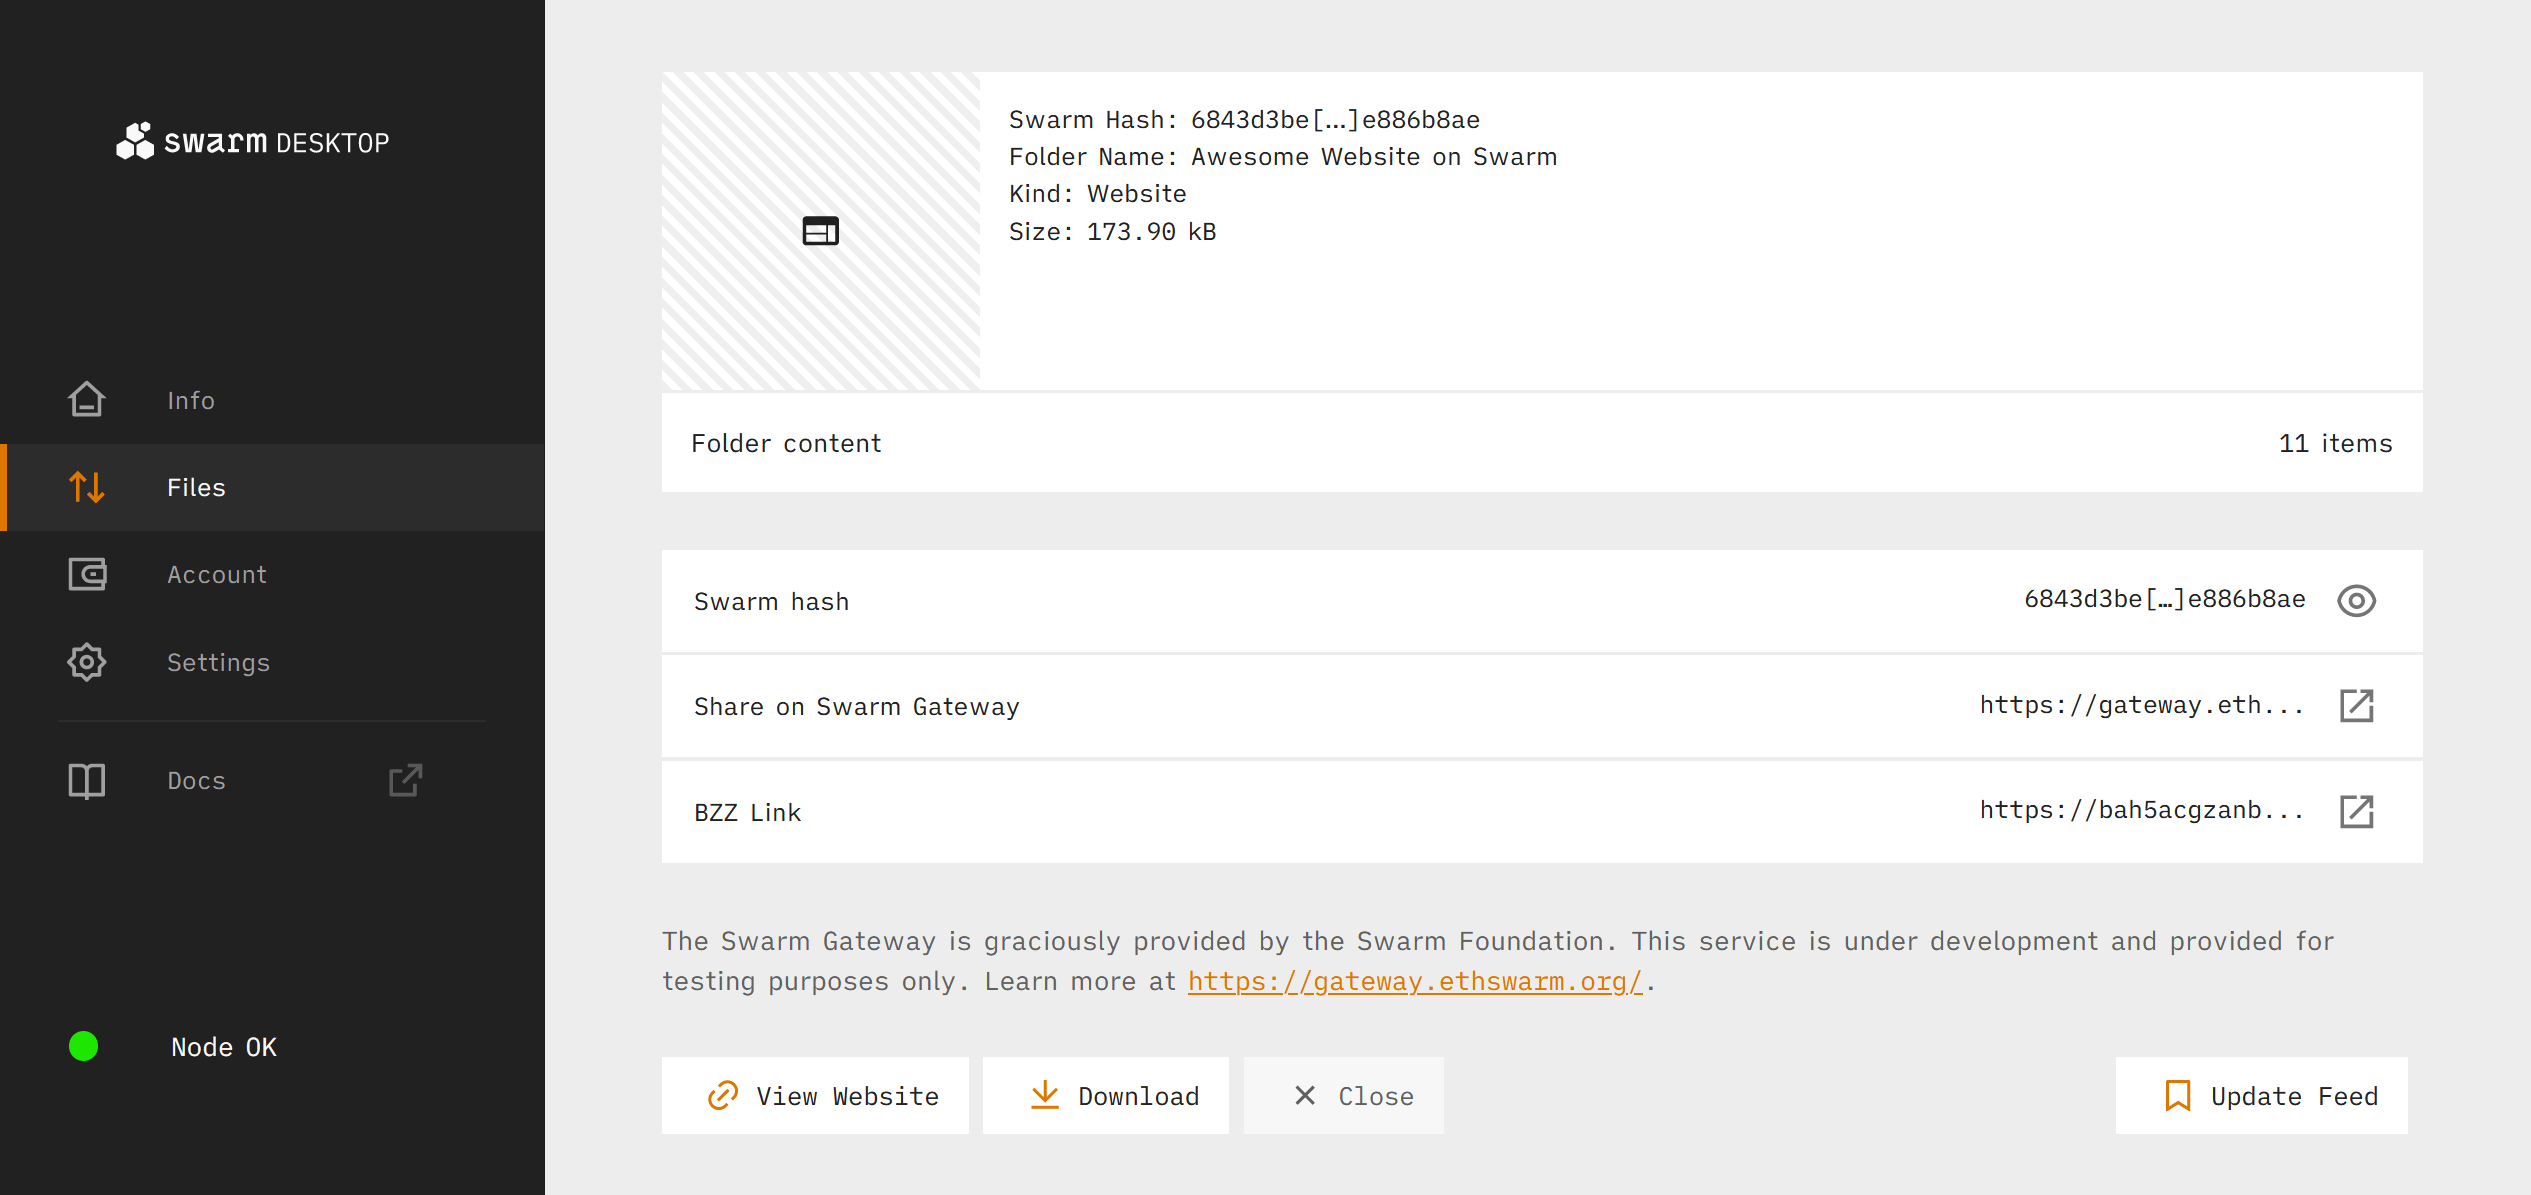
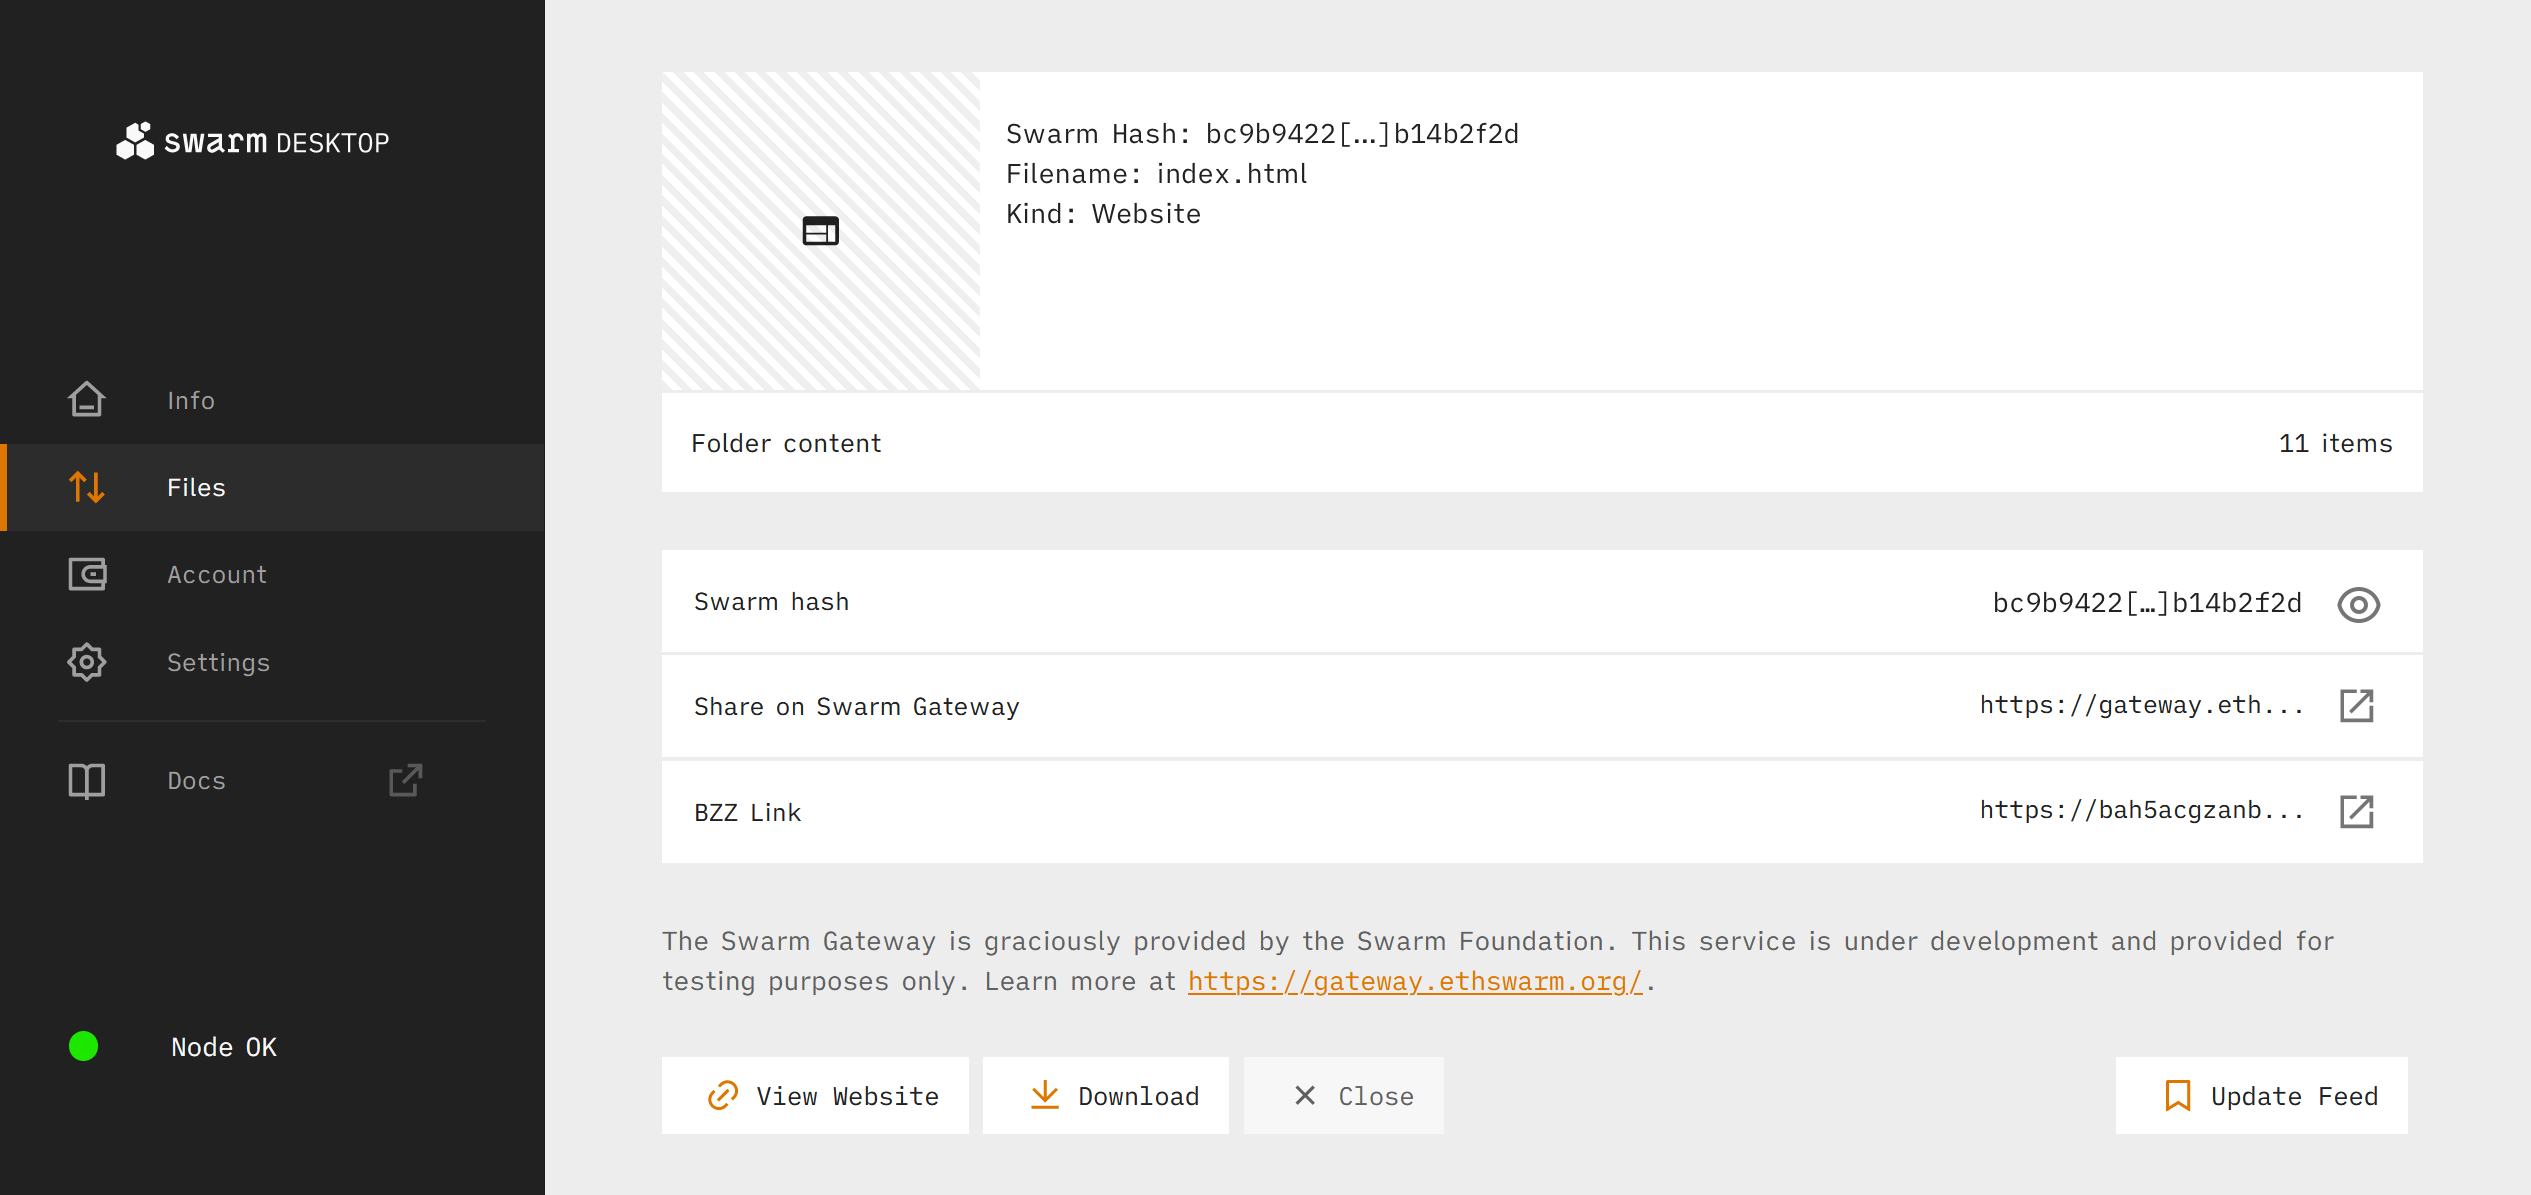
Merge pull request #2 from Solar-Punk-Ltd/fix/update-example-swarm-hash
fix: update example Swarm hash in desktop docs

Pull request: fix: update example Swarm hash in desktop docs
Replace the outdated example hash (6843d3be…) with a working one (bc9b9422…) in `access-content.md`, `publish-a-website.md`, and `.link-checker-ignore`. Retake `access2/3/4.png` screenshots to match.

Changed region(s): [[0.3746, 0.0929, 0.6243, 0.2167], [0.7803, 0.4954, 0.9364, 0.5264]]

diff --git a/docs/desktop/publish-a-website.md b/docs/desktop/publish-a-website.md
@@ -53,12 +53,12 @@ Your website is now accessible via:
 
 **Local Bee node:**
 ```
-http://localhost:1633/bzz/6843d3be17364ea0620011430e4db2a26ff781da478493a02d6eb5aae886b8ae/
+http://localhost:1633/bzz/bc9b942212421e2a19fe1ffdf0add641ae530923041ea8f549381747b14b2f2d/
 ```
 
 **Public gateway:**
 ```
-https://api.gateway.ethswarm.org/bzz/6843d3be17364ea0620011430e4db2a26ff781da478493a02d6eb5aae886b8ae/
+https://api.gateway.ethswarm.org/bzz/bc9b942212421e2a19fe1ffdf0add641ae530923041ea8f549381747b14b2f2d/
 ```
 
 Replace the hash with your actual website hash.

diff --git a/docs/desktop/access-content.md b/docs/desktop/access-content.md
@@ -12,7 +12,7 @@ To access content on Swarm go to the ***Files*** tab and click ***Download***:
 
 From there, paste the Swarm hash for the content you want to access, and click ***Find***. We'll use the hash for a Swarm blog post explaining how to upload a website to Swarm:
 
[2 lines of base64/hex data omitted]
 
 ![](/img/access2.png)
 